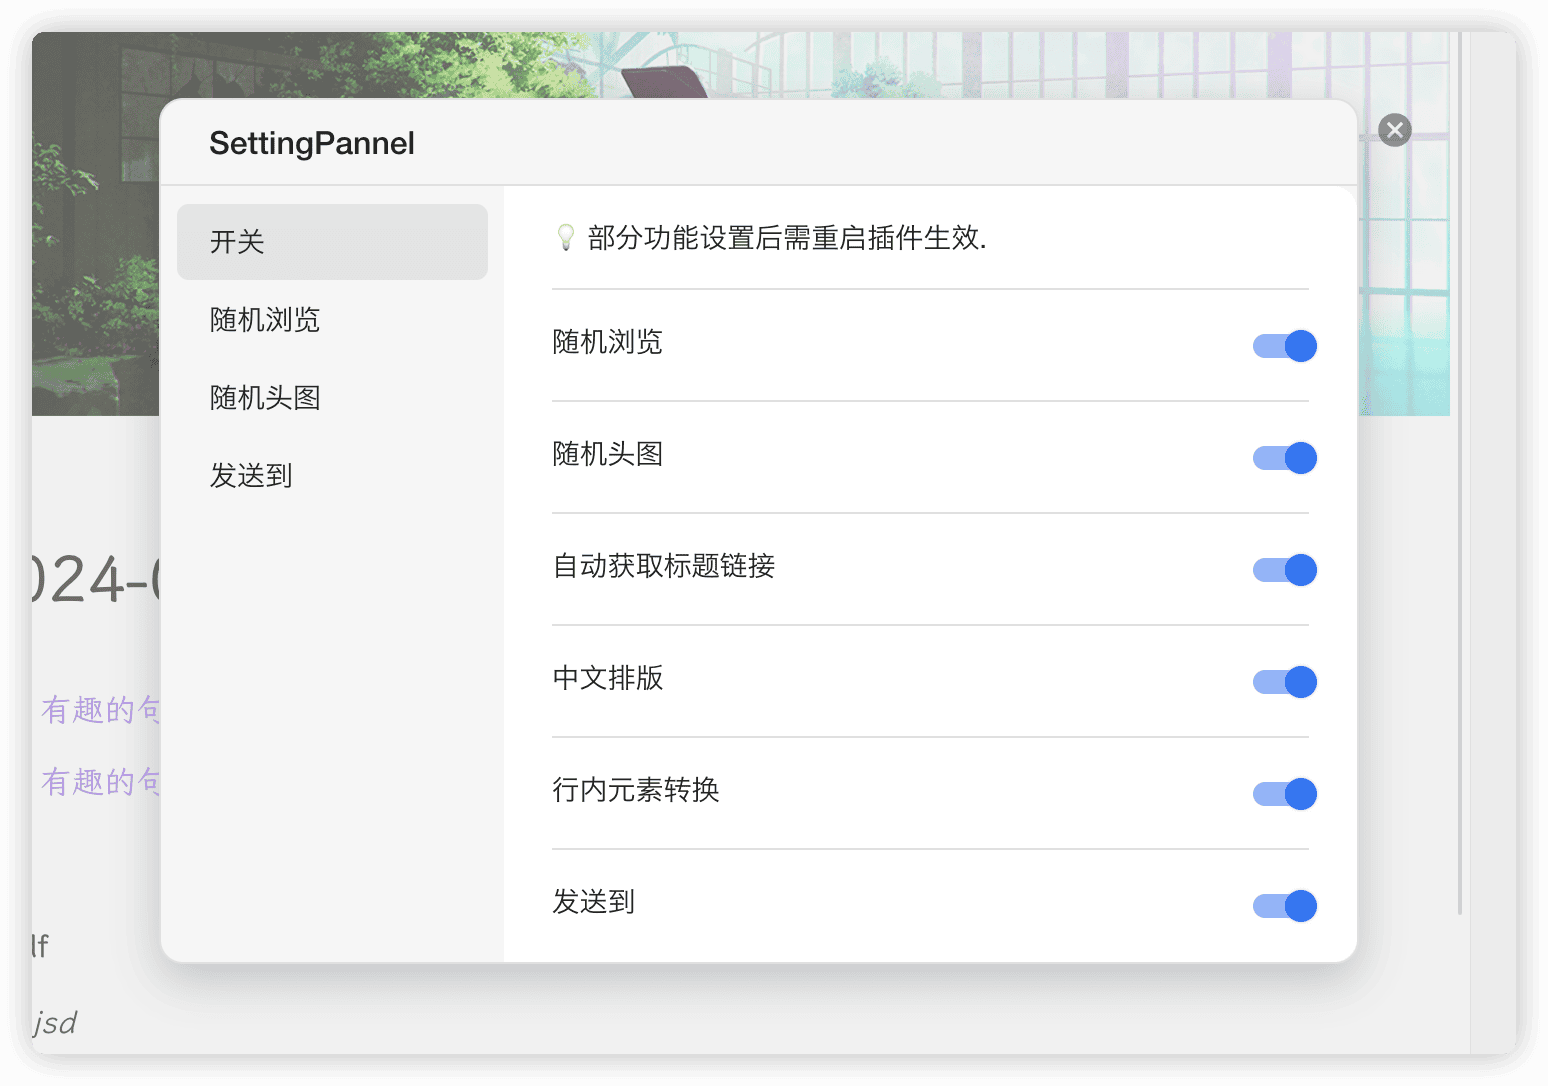
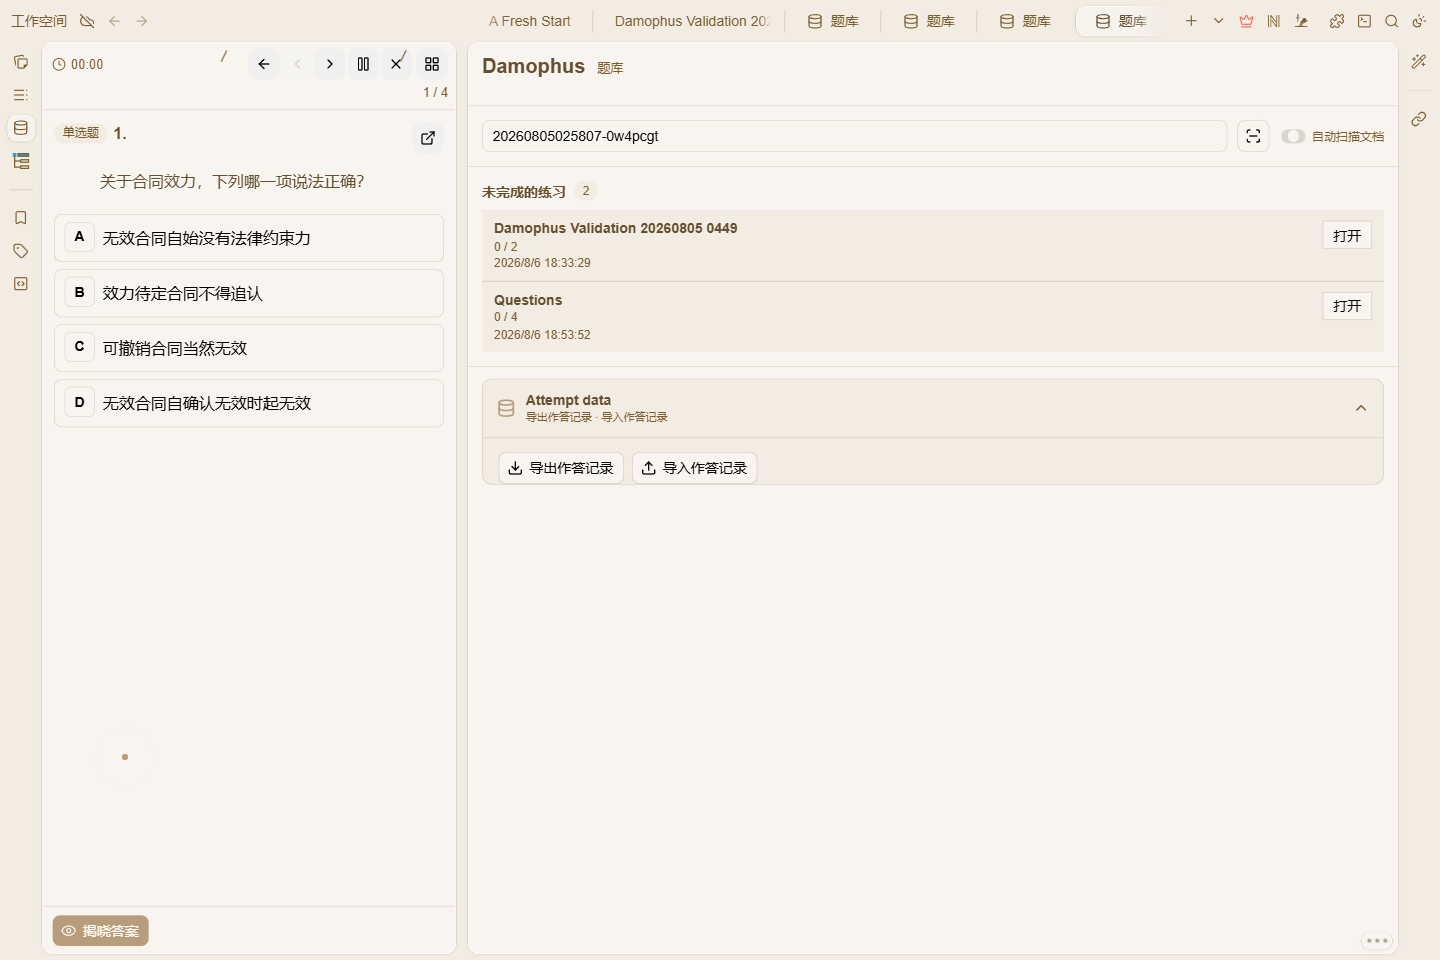
docs: replace inherited marketplace preview

diff --git a/CHANGELOG.md b/CHANGELOG.md
@@ -1,6 +1,6 @@
 # siyuan-damophus
 
-## 0.0.3
+## 0.0.4
 
 ### Patch Changes
 
@@ -8,6 +8,7 @@
 - Refine the mobile title bar, full breadcrumb behavior, and liquid-glass surface.
 - Add native SiYuan E2E screenshots to the README.
 - Compress the plugin icon below the SiYuan Bazaar 20 KB asset limit.
+- Replace inherited upstream description and preview artwork with Damophus-specific metadata and native question-bank imagery.
 
 ## 0.0.1
 
